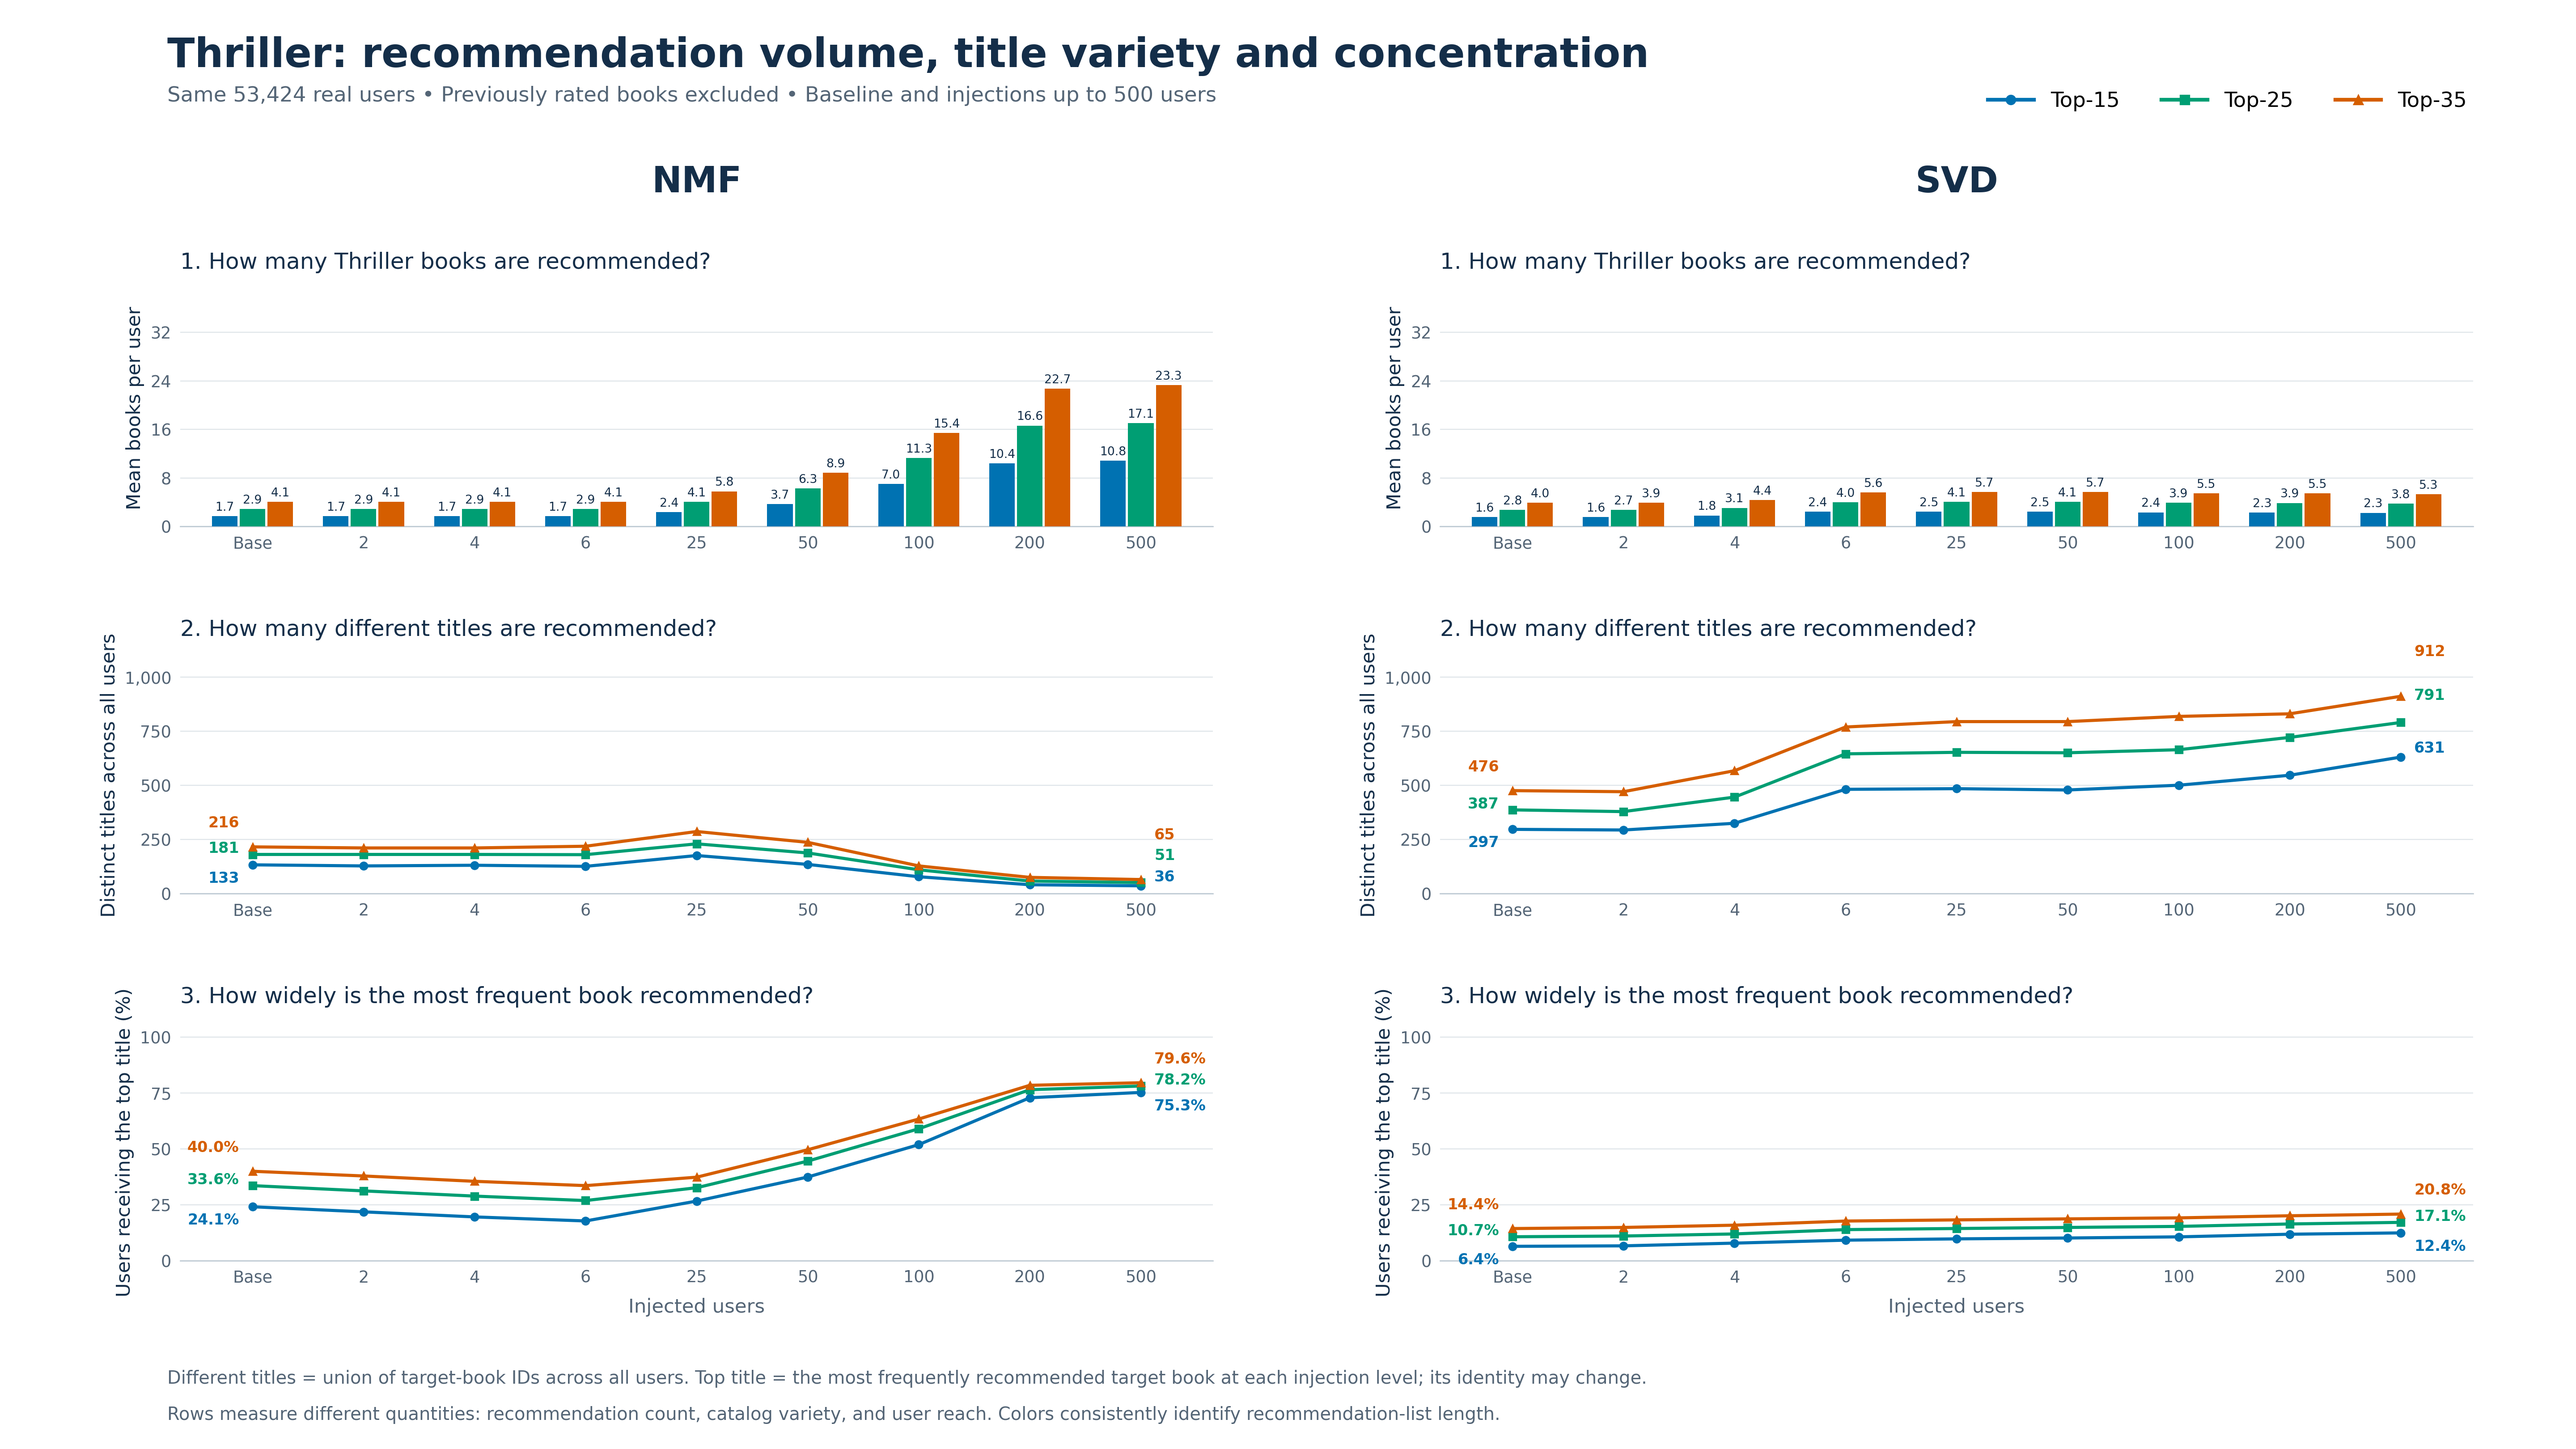
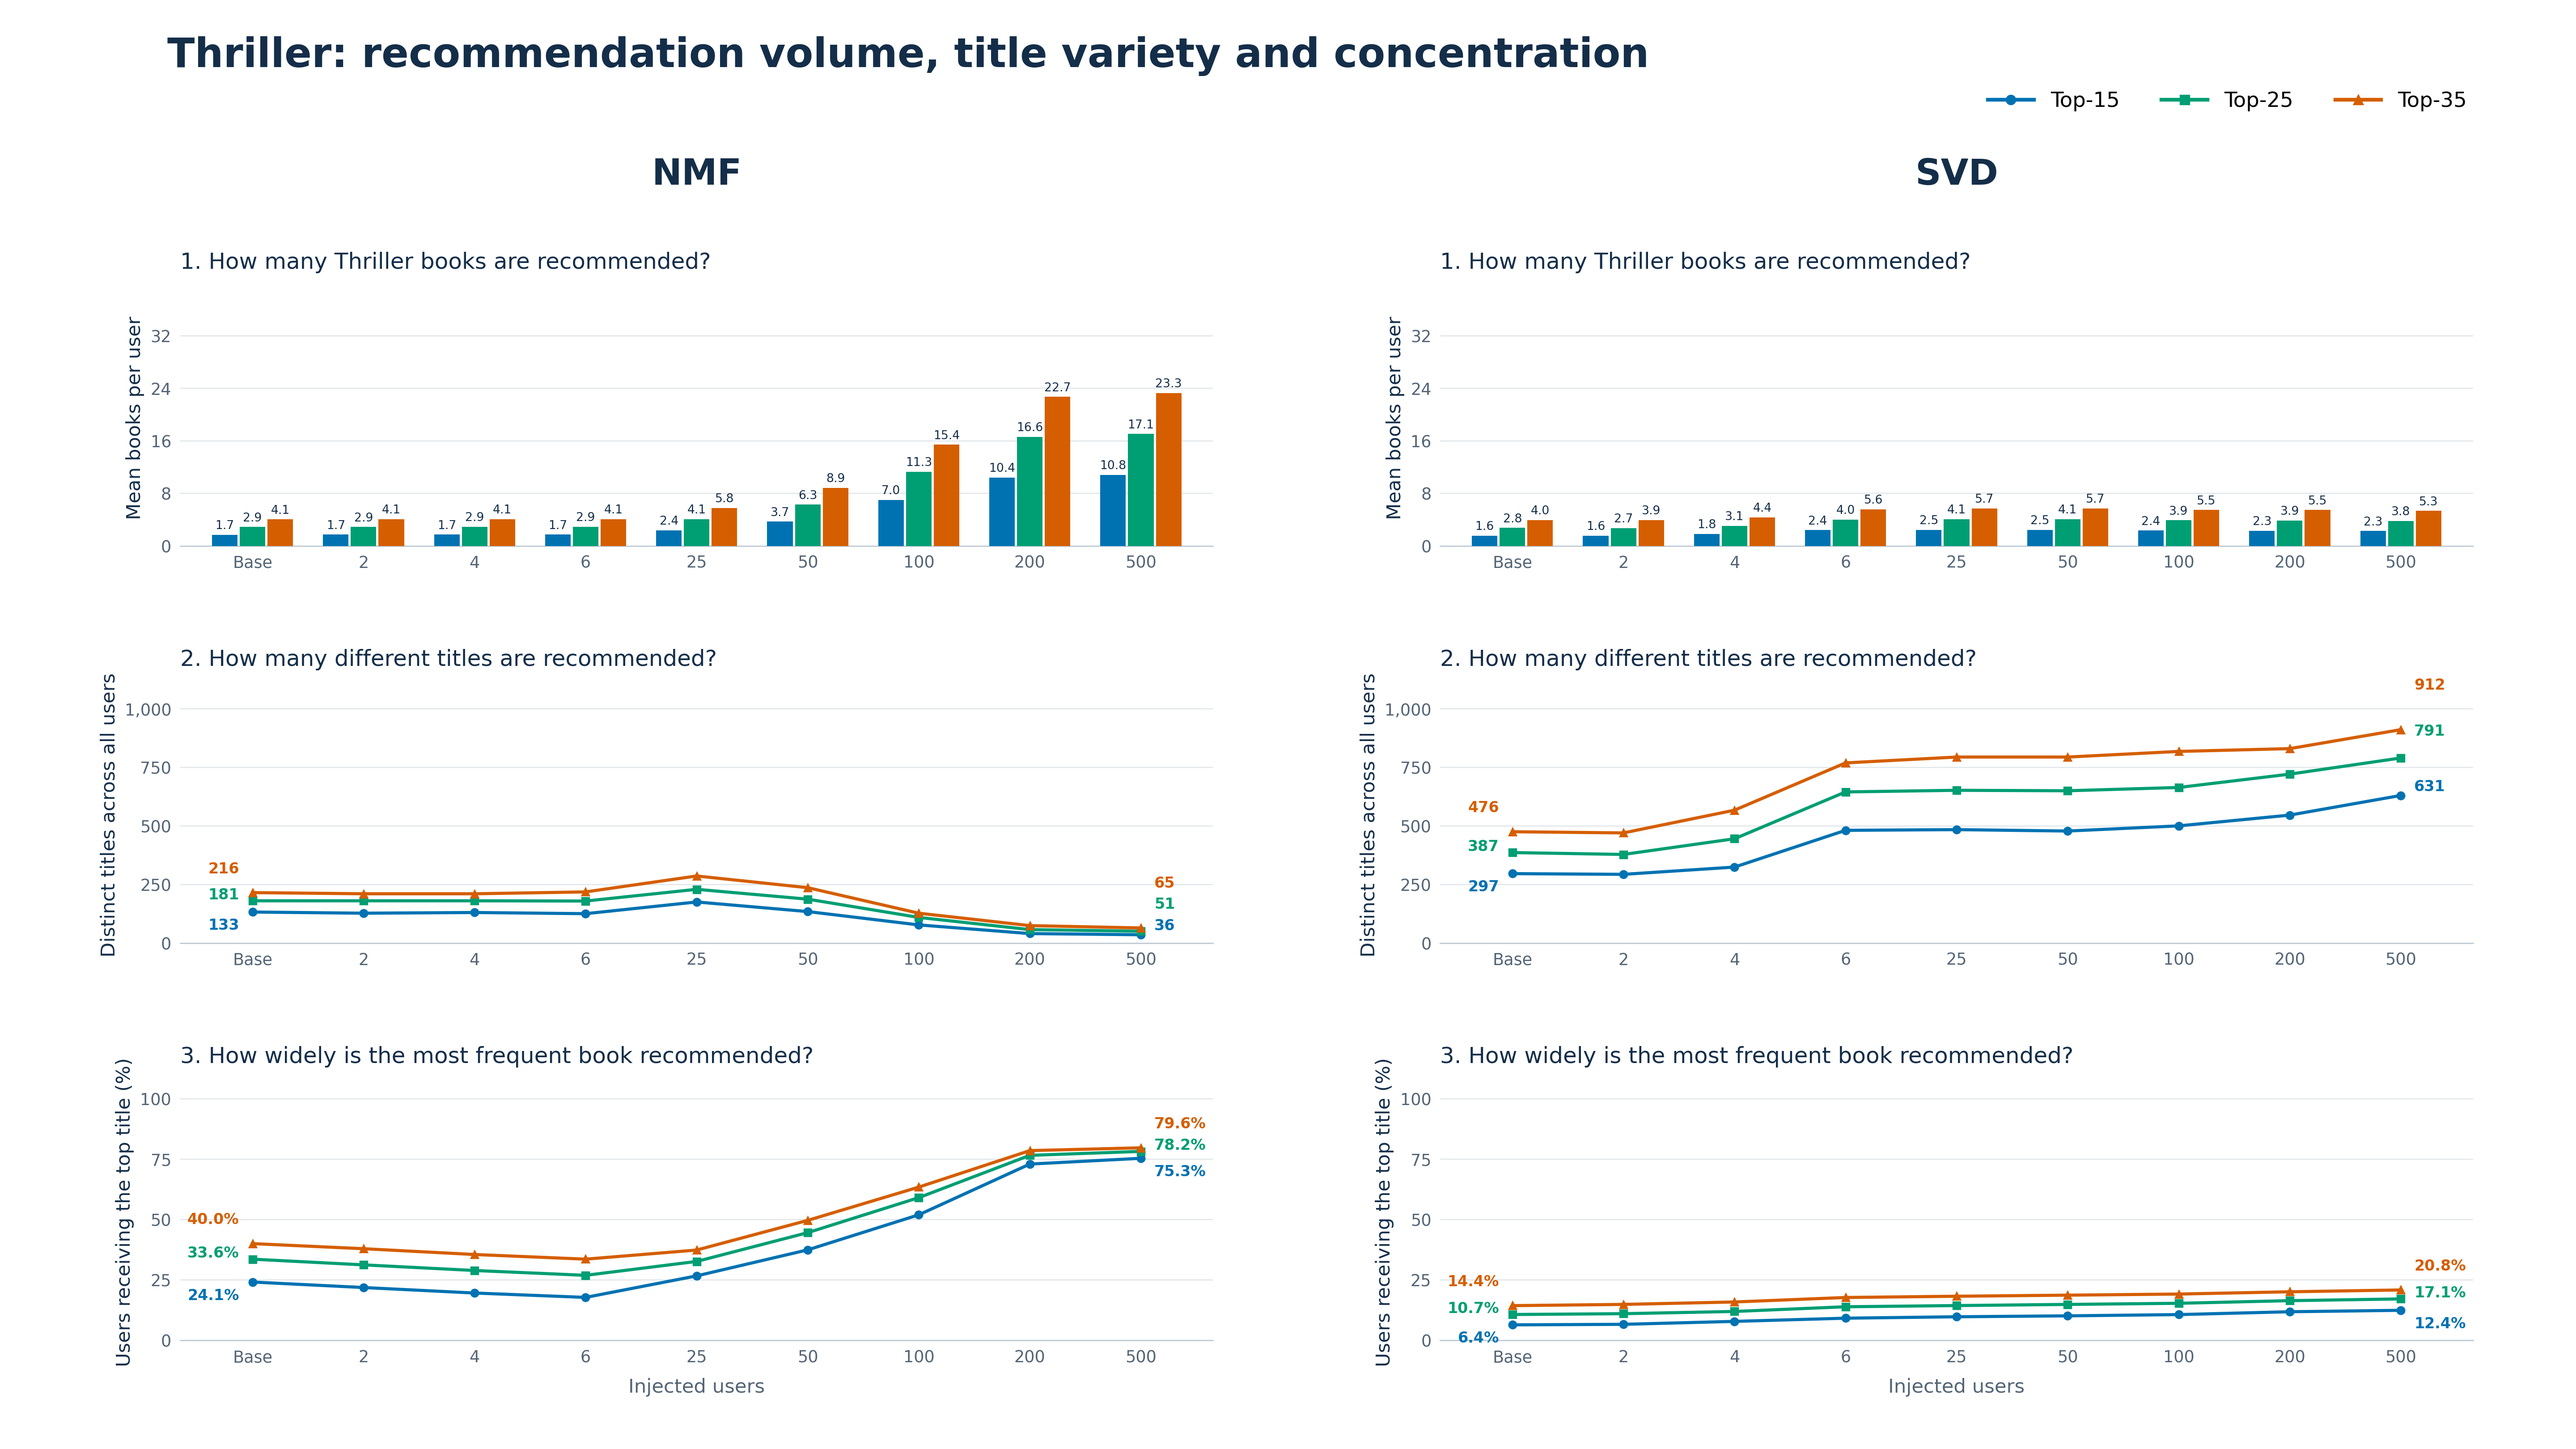
Remove internal captions and user-count subtitle from genre comparison figures

diff --git a/Book/current/PerturbRec/svd_nmf/layer1/notebook/plot_topk_target_union.py b/Book/current/PerturbRec/svd_nmf/layer1/notebook/plot_topk_target_union.py
@@ -44,11 +44,8 @@ for genre in ['Thriller','Drama']:
    if ri==2:ax.set_xlabel('Injected users',labelpad=8,fontsize=13,color=MUTED)
   axs[0,ci].text(.5,1.38,model.upper(),transform=axs[0,ci].transAxes,ha='center',va='bottom',fontsize=24,fontweight='bold',color=NAVY)
  fig.suptitle(f'{genre}: recommendation volume, title variety and concentration',x=.065,ha='left',y=.975,fontsize=27,fontweight='bold',color=NAVY)
- fig.text(.065,.93,'Same 53,424 real users • Previously rated books excluded • Baseline and injections up to 500 users',fontsize=14,color=MUTED)
  handles=[Line2D([0],[0],color=c,marker=m,lw=2.5,label=f'Top-{k}') for k,c,m in zip(KS,COLORS,MARKERS)]
  fig.legend(handles=handles,loc='upper right',bbox_to_anchor=(.965,.95),ncol=3,frameon=False,fontsize=14,handlelength=2.2,columnspacing=2)
- fig.subplots_adjust(left=.07,right=.96,top=.80,bottom=.13,hspace=.55,wspace=.22)
- fig.text(.065,.045,'Different titles = union of target-book IDs across all users. Top title = the most frequently recommended target book at each injection level; its identity may change.',fontsize=12,color=MUTED)
- fig.text(.065,.02,'Rows measure different quantities: recommendation count, catalog variety, and user reach. Colors consistently identify recommendation-list length.',fontsize=12,color=MUTED)
+ fig.subplots_adjust(left=.07,right=.96,top=.80,bottom=.075,hspace=.55,wspace=.22)
  out=R/'layer2/final_results'/f'comparision - {genre}_top35_union_powerpoint.png';fig.savefig(out,dpi=240);preview=L/'log'/f'{genre}_union_preview.png';fig.savefig(preview,dpi=90);plt.close(fig);print(out,flush=True)
 (L/'log/topk_target_union_validation.json').write_text(json.dumps({'rows':len(d),'max_injected_users':500,'displayed_injection_counts':COUNTS,'k_values':KS,'n_real_users':53424,'three_metrics':['mean_target_count','union_distinct_target_titles','most_frequent_book_user_reach_percent'],'repeat_rate_removed_from_figure':True,'no_recomputation_of_recommendations':True,'existing_values_preserved':True,'top_title_user_reach_arithmetic_checked':True,'negative_factor_checkpoints':d[~d.nmf_nonnegative_constraint_ok][['model','genre','n_fake']].drop_duplicates().to_dict('records')},indent=2))
